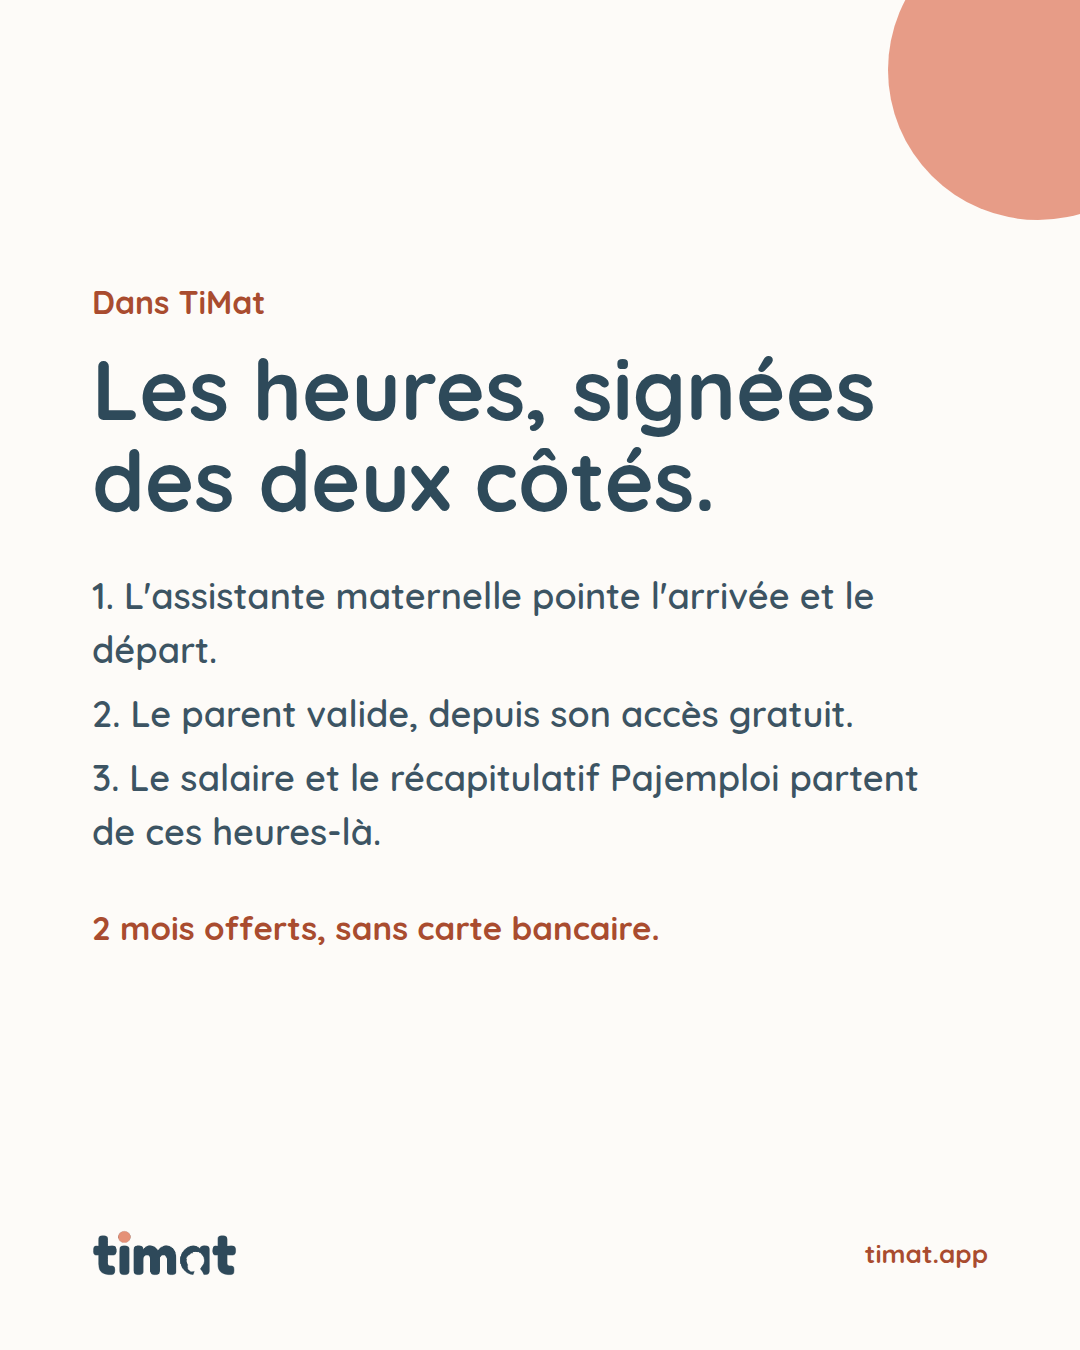
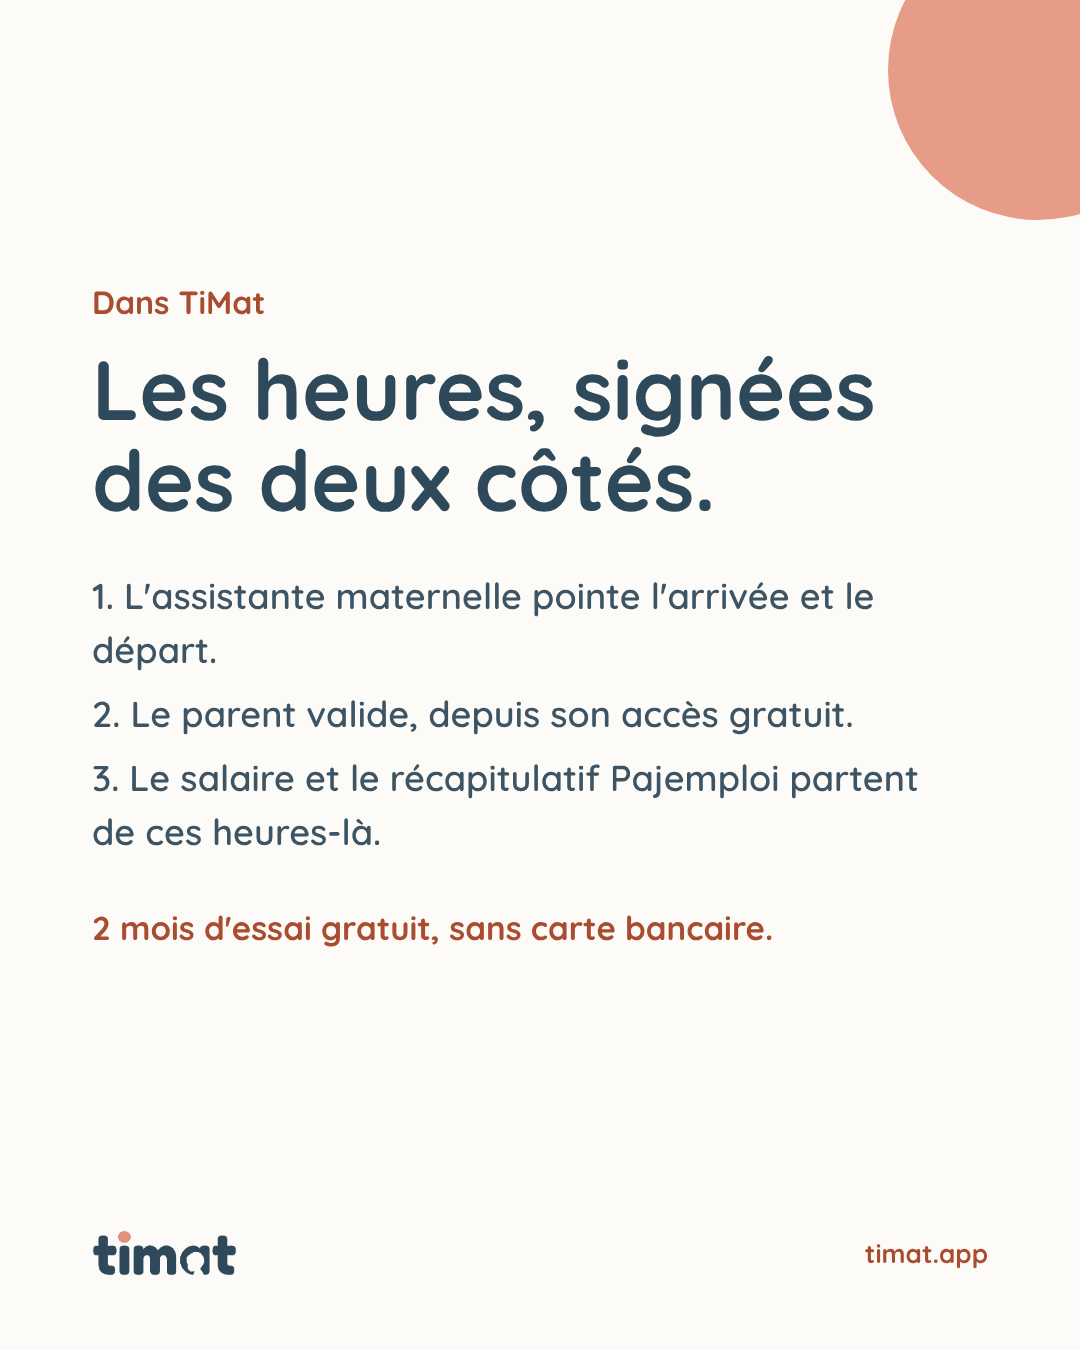
Encadré « Écrit par Sophie », essai renommé, premier paiement en fin d'essai, stories replacées (#317)
Décisions de Sophie du 7/11 :

- Encadré « Écrit par Sophie, fondatrice de TiMat · Cachan (Val-de-Marne) »
  sur chaque article, avant les sources, avec le texte qu'elle a validé :
  prénom seul (la documentation Google sur les articles ne demande que le
  nom de l'auteur), sans photo, agrément en préparation — jamais « agréée ».
  Les données structurées nomment l'autrice (Person) ; TiMat reste
  l'éditeur.

- L'essai s'appelle partout « 2 mois d'essai gratuit » ; « 2 mois
  offerts » est réservé au paiement à l'année. Site, application,
  courriels de fin d'essai, lettre d'information, kit (bio Instagram
  comprise) et les sept images qui portaient la mention.

- Choisir son offre pendant l'essai ne fait plus perdre de jours : le
  premier prélèvement Stripe est fixé à la fin de l'essai (trial_end),
  s'il reste plus de 48 heures. Avant, une abonnée au 20e jour payait le
  jour même et perdait le reste de son essai. CGV complétées, datées du
  7/11, empreinte recalculée.

- Stories non faites les 5 et 6/11 : replacées sans jamais deux sondages
  le même jour (préavis le 7/11, congés le 9/11, sondage d'avis le 13/11).

Claude-Session: https://claude.ai/code/session_01JVfHnHqQqeEKwpYvot8sHP

diff --git a/src/App.jsx b/src/App.jsx
@@ -5308,7 +5308,7 @@ export function ModaleListeAttente({ ouverte, fermer }){
             <>
               <p style={{fontSize:14.5,lineHeight:1.7,color:"#55707C",margin:"0 0 18px"}}>
                 Vous recevrez un e-mail le jour où les inscriptions ouvrent. Un seul.
-                Vous pourrez créer votre compte dans la foulée : <b style={{color:"#2E4859"}}>deux mois offerts, sans carte bancaire</b>.
+                Vous pourrez créer votre compte dans la foulée : <b style={{color:"#2E4859"}}>deux mois d'essai gratuit, sans carte bancaire</b>.
               </p>
               <p style={{fontSize:14.5,lineHeight:1.7,color:"#55707C",margin:"0 0 14px"}}>
                 D'ici là, tout ceci est déjà en ligne, gratuitement et sans compte :
@@ -5839,7 +5839,7 @@ export function LandingPage({onLogin,dark,setDark,config=DEFAULT_CONFIG,preview=
               <div style={{ display: "flex", justifyContent: "space-between", alignItems: "center", marginBottom: 16 }}>
                 <div>
                   <div style={{ fontFamily: fTitle, fontSize: 18, fontWeight: 700, color: "#0D1B2A" }}>{role === "asmat" ? "Espace pro" : "Espace famille"}</div>
-                  <div style={{ fontSize: 11, color: "#A68970", marginTop: 2 }}>{modeAuth === "inscription" ? (role === "asmat" ? "2 mois gratuits · sans carte" : "Inscription gratuite") : "Content de vous revoir !"}</div>
+                  <div style={{ fontSize: 11, color: "#A68970", marginTop: 2 }}>{modeAuth === "inscription" ? (role === "asmat" ? "2 mois d'essai gratuit · sans carte" : "Inscription gratuite") : "Content de vous revoir !"}</div>
                 </div>
                 <button onClick={() => { try{window.location.href="/";}catch(e){} }} style={{ background: "none", border: "none", fontSize: 18, cursor: "pointer", color: "#A68970" }}>✕</button>
               </div>
@@ -6941,7 +6941,7 @@ export function LandingPage({onLogin,dark,setDark,config=DEFAULT_CONFIG,preview=
               <p><strong>Formule Pro :</strong> 9,99 € TTC par mois, ou 99 € TTC par an. Accès à toutes les fonctionnalités, sans limite du nombre d'enfants accueillis.</p>
               <p><strong>Essai gratuit :</strong> tout compte d'assistante maternelle s'ouvre sur un essai gratuit de 2 mois, avec l'accès de la formule Pro, à compter de la création du compte. <strong>Aucune carte bancaire n'est demandée pour cet essai</strong>, et aucun abonnement n'est créé pendant sa durée : il ne peut donc pas se transformer en prélèvement. Un rappel est envoyé 7 jours puis 3 jours avant la fin.</p>
               <p>À l'issue des 2 mois, le compte repasse automatiquement en formule gratuite. <strong>Aucune donnée n'est supprimée</strong> : enfants, pointages, contrats et documents sont conservés, seules les fonctions des formules payantes cessent d'être accessibles. Reprendre un abonnement les rouvre en l'état.</p>
-              <p>La carte bancaire n'est demandée qu'au moment de souscrire l'abonnement, si vous choisissez de continuer. L'abonnement est alors mensuel ou annuel, selon le choix fait à la souscription, et résiliable à tout moment sans frais depuis l'espace utilisateur ; la résiliation prend effet à la fin de la période déjà payée. Le passage d'une formule à l'autre, ou d'une période à l'autre, prend effet immédiatement : la différence de prix est calculée au prorata de la période en cours, puis facturée ou créditée. Le paiement est géré par Stripe (prestataire certifié PCI-DSS). Aucune donnée bancaire n'est stockée par TiMat.</p>
+              <p>La carte bancaire n'est demandée qu'au moment de souscrire l'abonnement, si vous choisissez de continuer. Un abonnement souscrit pendant l'essai n'est prélevé qu'à la fin de celui-ci. L'abonnement est alors mensuel ou annuel, selon le choix fait à la souscription, et résiliable à tout moment sans frais depuis l'espace utilisateur ; la résiliation prend effet à la fin de la période déjà payée. Le passage d'une formule à l'autre, ou d'une période à l'autre, prend effet immédiatement : la différence de prix est calculée au prorata de la période en cours, puis facturée ou créditée. Le paiement est géré par Stripe (prestataire certifié PCI-DSS). Aucune donnée bancaire n'est stockée par TiMat.</p>
 
               <h3 style={{fontSize:15,fontWeight:700,color:"#2E4859",margin:"20px 0 12px"}}>5. Données et contenu utilisateur</h3>
               <p>L'utilisateur reste propriétaire de toutes les données qu'il saisit dans TiMat (informations sur les enfants, contrats, pointages, transmissions, documents). TiMat ne revendique aucun droit de propriété sur ces données. L'utilisateur peut exporter ou supprimer ses données à tout moment.</p>
@@ -7101,7 +7101,7 @@ export function LandingPage({onLogin,dark,setDark,config=DEFAULT_CONFIG,preview=
               <div style={{ display: "flex", justifyContent: "space-between", alignItems: "center", marginBottom: 16 }}>
                 <div>
                   <div style={{ fontFamily: fTitle, fontSize: 18, fontWeight: 700, color: "#0D1B2A" }}>{role === "asmat" ? "Espace pro" : "Espace famille"}</div>
-                  <div style={{ fontSize: 11, color: "#A68970", marginTop: 2 }}>{modeAuth === "inscription" ? (role === "asmat" ? "2 mois gratuits · sans carte" : "Inscription gratuite") : "Content de vous revoir !"}</div>
+                  <div style={{ fontSize: 11, color: "#A68970", marginTop: 2 }}>{modeAuth === "inscription" ? (role === "asmat" ? "2 mois d'essai gratuit · sans carte" : "Inscription gratuite") : "Content de vous revoir !"}</div>
                 </div>
                 <button onClick={() => setShowModal(false)} style={{ background: "none", border: "none", fontSize: 18, cursor: "pointer", color: "#A68970" }}>✕</button>
               </div>
@@ -7330,24 +7330,24 @@ export const DEFAULT_CONFIG = {
     heroSub:"Vous saisissez vos heures. TiMat calcule le salaire, les congés et les indemnités, et prépare votre déclaration Pajemploi.",
     heroBtn:"Commencer gratuitement →",
     prixMensuel:"9,99",
-    prixEssai:"2 mois offerts",
+    prixEssai:"2 mois d'essai gratuit",
     heroDesc:"",
     heroBadge:"Conforme à la convention IDCC 3239",
     heroSubDesc:"",
-    heroBtnPrimTxt:"2 mois offerts, sans carte bancaire →",
+    heroBtnPrimTxt:"2 mois d'essai gratuit, sans carte bancaire →",
     // La barre du bas a son propre libellé : elle porte déjà le prix et la
     // durée à gauche, reprendre le bouton du hero disait tout deux fois.
-    barreBtnTxt:"Je démarre mes 2 mois offerts",
+    barreBtnTxt:"Je démarre mon essai gratuit",
     heroBtnSecTxt:"Voir l'app en démo ↓",
     // Les deux portes d'entrée du hero, et la troisième voie sans compte.
     heroRoleAsmat:"Je suis assistante maternelle",
-    heroRoleAsmatSub:"2 mois offerts, sans carte bancaire",
+    heroRoleAsmatSub:"2 mois d'essai gratuit, sans carte bancaire",
     heroRoleParent:"Je suis parent employeur",
     heroRoleParentSub:"Gratuit, invité par votre assistante maternelle",
     heroOutilTxt:"Calculer un salaire mensualisé — sans compte",
     heroBtnNavTxt:"Commencer gratuitement →",
-    heroTags:"2 mois offerts,Sans carte bancaire,Une saisie — le reste se calcule,Données en France",
-    ctaBtnTxt:"Je commence - 2 mois gratuits →",
+    heroTags:"2 mois d'essai gratuit,Sans carte bancaire,Une saisie — le reste se calcule,Données en France",
+    ctaBtnTxt:"Je commence mon essai gratuit →",
     ctaSub:"TiMat s'occupe de ça. Pour que vous puissiez vous occuper des enfants.",
     ctaFooter:"Créé par une professionnelle de la petite enfance · Données hébergées en France 🇫🇷",
     proLabel:"⭐ SANS LIMITE D'ENFANTS",
@@ -8862,7 +8862,7 @@ export default function App(){
             <div style={{margin:"10px 12px 0",background:"#FFF4EF",border:"1px solid #F0D6CB",borderLeft:"3px solid #B4543F",borderRadius:12,padding:"12px 14px",display:"flex",gap:12,alignItems:"center",flexWrap:"wrap"}}>
               <div style={{flex:"1 1 200px",minWidth:0}}>
                 <div style={{fontWeight:700,color:"#2E4859",fontSize:14}}>
-                  {joursEssai===1?"Vos deux mois offerts se terminent demain.":"Vos deux mois offerts se terminent dans "+joursEssai+" jours."}
+                  {joursEssai===1?"Votre essai gratuit se termine demain.":"Votre essai gratuit se termine dans "+joursEssai+" jours."}
                 </div>
                 <div style={{fontSize:12.5,color:"#55707C",marginTop:2,lineHeight:1.5}}>
                   Sans rien faire, votre compte repasse en formule gratuite. Rien n'est supprimé.
@@ -8877,7 +8877,7 @@ export default function App(){
           {role!=="parent"&&essaiFini&&(
             <div style={{margin:"10px 12px 0",background:"#F4F7F6",border:"1px solid #D8E4E1",borderLeft:"3px solid #2F655F",borderRadius:12,padding:"12px 14px",display:"flex",gap:12,alignItems:"center",flexWrap:"wrap"}}>
               <div style={{flex:"1 1 200px",minWidth:0}}>
-                <div style={{fontWeight:700,color:"#2E4859",fontSize:14}}>Vos deux mois offerts sont terminés.</div>
+                <div style={{fontWeight:700,color:"#2E4859",fontSize:14}}>Votre essai gratuit de 2 mois est terminé.</div>
                 <div style={{fontSize:12.5,color:"#55707C",marginTop:2,lineHeight:1.5}}>
                   Vos enfants, vos pointages et vos documents sont intacts. Reprendre l'abonnement rouvre le dossier exactement où vous l'aviez laissé.
                 </div>

diff --git a/api/send-email.js b/api/send-email.js
@@ -58,7 +58,7 @@ export const EMAIL_TEMPLATES = {
   essai_rappel_7: {
     subject: "Il vous reste une semaine d'essai TiMat",
     html: (v) => `<h2>${salut(v.prenom)}</h2>
-<p>Vos deux mois offerts se terminent le <strong>${esc(v.fin)}</strong>, dans ${esc(v.jours)} jours.</p>
+<p>Votre essai gratuit de 2 mois se termine le <strong>${esc(v.fin)}</strong>, dans ${esc(v.jours)} jours.</p>
 <p>Vous n'avez rien à faire tout de suite, et aucune carte bancaire ne vous a été demandée. Si vous souhaitez continuer, vous pourrez le faire d'un clic depuis votre espace.</p>
 <p><a href="${lien(v.url)}" style="display:inline-block;background:#B4543F;color:#fff;padding:12px 24px;border-radius:8px;text-decoration:none;font-weight:700">Ouvrir TiMat</a></p>
 <p style="color:#55707C;font-size:14px">Si vous ne continuez pas, votre compte repasse simplement en formule gratuite. Vos enfants, vos pointages et vos documents restent là où ils sont.</p>`,
@@ -66,7 +66,7 @@ export const EMAIL_TEMPLATES = {
   essai_rappel_3: {
     subject: "Vos deux mois d'essai TiMat se terminent dans 3 jours",
     html: (v) => `<h2>${salut(v.prenom)}</h2>
-<p>Vos deux mois offerts se terminent le <strong>${esc(v.fin)}</strong>.</p>
+<p>Votre essai gratuit de 2 mois se termine le <strong>${esc(v.fin)}</strong>.</p>
 <p>Pour garder les bulletins de salaire et le récapitulatif Pajemploi, choisissez votre offre : Essentiel à 4,99 € par mois pour un enfant, ou Pro à 9,99 € par mois sans limite d'enfants (ou à l'année, avec 2 mois offerts) — sans engagement, résiliable en un clic.</p>
 <p><a href="${lien(v.url)}" style="display:inline-block;background:#B4543F;color:#fff;padding:12px 24px;border-radius:8px;text-decoration:none;font-weight:700">Choisir mon offre</a></p>
 <p style="color:#55707C;font-size:14px">Si vous ne faites rien, votre compte repasse en formule gratuite. <strong>Rien n'est supprimé</strong> : vos enfants, vos pointages et vos documents vous attendent, et reprendre l'abonnement rouvre exactement le dossier que vous aviez laissé.</p>`,

diff --git a/api/stripe.js b/api/stripe.js
@@ -205,7 +205,7 @@ export default async function handler(req, res) {
     // au prorata ; le webhook « customer.subscription.updated » met l'offre a
     // jour dans le profil.
     const { data: profil, error: errProfil } = await sb.from('profiles')
-      .select('stripe_customer_id').eq('id', userId).maybeSingle();
+      .select('stripe_customer_id, subscription_status, subscription_end_date').eq('id', userId).maybeSingle();
     if (errProfil) return res.status(502).json({ error: 'Profil illisible : ' + errProfil.message });
     if (profil?.stripe_customer_id) {
       const { data: abonnements } = await stripe.subscriptions.list({ customer: profil.stripe_customer_id, status: 'all', limit: 10 });
@@ -227,6 +227,15 @@ export default async function handler(req, res) {
       }
     }
 
+    // CHOISIR SON OFFRE PENDANT L'ESSAI NE FAIT PERDRE AUCUN JOUR. Sans cela,
+    // une assistante maternelle qui s'abonnait au 20e jour de ses 2 mois
+    // d'essai payait le jour même et perdait les 40 jours restants. Le premier
+    // prélèvement est donc fixé à la fin de l'essai ; Stripe exige au moins
+    // 48 heures d'écart, en deçà le paiement commence tout de suite.
+    const finEssai = profil?.subscription_status === 'trialing' && profil?.subscription_end_date
+      ? Math.floor(new Date(profil.subscription_end_date).getTime() / 1000) : 0;
+    const essaiRestant = finEssai > Math.floor(Date.now() / 1000) + 2 * 86400 ? finEssai : 0;
+
     const session = await stripe.checkout.sessions.create({
       mode: 'subscription',
       payment_method_types: ['card'],
@@ -243,6 +252,7 @@ export default async function handler(req, res) {
       // le premier paiement de deux mois de plus.
       subscription_data: {
         metadata: { userId, offre, periode },
+        ...(essaiRestant ? { trial_end: essaiRestant } : {}),
       },
     });
 

diff --git a/src/ecrans-secondaires.jsx b/src/ecrans-secondaires.jsx
@@ -630,7 +630,7 @@ export function CarteAbonnement({user,nbEnfants=0,lancerCheckout,ouvrirPortail})
   // proposé qu'à qui accueille au plus un enfant.
   const choix=offre==="pro"?[]:offre==="essentiel"?["pro"]:["essentiel","pro"];
   const texte={
-    essai:"Votre essai gratuit vous donne tout TiMat"+(jours!==null&&jours>0?", encore "+jours+" jour"+(jours>1?"s":""):"")+". Aucun abonnement n'est en cours : sans rien faire, le compte repasse en gratuit à la fin de l'essai, et vos données restent là. Pour continuer avec tout TiMat, choisissez votre offre.",
+    essai:"Votre essai gratuit vous donne tout TiMat"+(jours!==null&&jours>0?", encore "+jours+" jour"+(jours>1?"s":""):"")+". Aucun abonnement n'est en cours : sans rien faire, le compte repasse en gratuit à la fin de l'essai, et vos données restent là. Pour continuer avec tout TiMat, choisissez votre offre"+(jours!==null&&jours>2?" : le premier paiement aura lieu à la fin de l'essai, vous ne perdez aucun jour.":"."),
     gratuit:"Compte gratuit : un enfant, et tout son quotidien. Pour la paie et les documents officiels, choisissez une offre.",
     essentiel:"Offre Essentiel active : tout TiMat, pour un enfant."+(nbEnfants>=1?" Pour accueillir un deuxième enfant, passez au Pro : le changement se fait au prorata, sans second abonnement.":""),
     pro:"Offre Pro active : tout TiMat, sans limite d'enfants.",

diff --git a/lib/infolettre-inscription.js b/lib/infolettre-inscription.js
@@ -61,7 +61,7 @@ function corpsAttente(email) {
   return `<!DOCTYPE html><html lang="fr"><body style="margin:0;background:#FDFBF8;font-family:-apple-system,BlinkMacSystemFont,'Segoe UI',sans-serif;color:#2E4859;line-height:1.7">
   <div style="max-width:520px;margin:0 auto;padding:32px 22px">
     <p style="font-size:22px;font-weight:700;margin:0 0 18px">C'est noté — vous serez prévenue</p>
-    <p style="margin:0 0 16px">Vous recevrez un e-mail le jour où les inscriptions ouvrent. Un seul, et vous pourrez créer votre compte dans la foulée : <strong>deux mois offerts, sans carte bancaire</strong>.</p>
+    <p style="margin:0 0 16px">Vous recevrez un e-mail le jour où les inscriptions ouvrent. Un seul, et vous pourrez créer votre compte dans la foulée : <strong>deux mois d'essai gratuit, sans carte bancaire</strong>.</p>
     <p style="margin:0 0 16px">D'ici là, tout ce qui est déjà en ligne l'est gratuitement et sans compte :</p>
     <p style="margin:0 0 8px">→ <a href="https://www.timat.app/outils.html" style="color:#9E5341">Les simulateurs</a> — salaire, congés, indemnités, Pajemploi</p>
     <p style="margin:0 0 8px">→ <a href="https://www.timat.app/blog" style="color:#9E5341">Les guides</a> — sourcés, avec les textes cités</p>

diff --git a/index.html b/index.html
@@ -138,7 +138,7 @@
         <h1>Application pour assistantes maternelles<br><em>et parents employeurs.</em></h1>
         <p class="quoi">Vous saisissez vos heures. TiMat calcule le salaire, les congés et les indemnités, et prépare votre déclaration Pajemploi.</p>
         <span class="cta">Je suis assistante maternelle →</span>
-        <span class="rassure">2 mois offerts · Sans carte bancaire · Données en France</span>
+        <span class="rassure">2 mois d'essai gratuit · Sans carte bancaire · Données en France</span>
         <div class="bar"><span></span></div>
       </div>
       <!-- Un seul h1 sur cette page, et aucun bloc cache pour les moteurs :
@@ -182,7 +182,7 @@
         <p>Le salaire minimum, la mensualisation, les congés, la déclaration Pajemploi : les réponses aux questions qui reviennent.</p>
 
         <h2>Ressources pour les assmats</h2>
-        <p>96 guides pratiques gratuits, chacun adossé à ses sources officielles, et des simulateurs sans inscription.</p>
+        <p>98 guides pratiques gratuits, chacun adossé à ses sources officielles, et des simulateurs sans inscription.</p>
 
         <nav aria-label="Ressources">
           <ul>

diff --git a/data/documents-legaux.js b/data/documents-legaux.js
@@ -12,11 +12,11 @@
 // d'audit compare le texte legal a son empreinte : toute modification du
 // texte fait echouer la construction tant que la date et l'empreinte n'ont
 // pas ete mises a jour ensemble.
-export const MAJ_DOCUMENTS_LEGAUX = "2026-11-05";
+export const MAJ_DOCUMENTS_LEGAUX = "2026-11-07";
 
 // Empreinte du texte lisible des trois documents. Se regenere avec :
 //   node scripts/empreinte-legale.mjs --ecrire
-export const EMPREINTE_DOCUMENTS_LEGAUX = "e82acc7b572bbcc15f4eeaede2de1baf";
+export const EMPREINTE_DOCUMENTS_LEGAUX = "3da3c9d9740b3496d30dcb8d6d5ef7f9";
 
 export const majLisible = () => {
   const [a, m, j] = MAJ_DOCUMENTS_LEGAUX.split("-");

diff --git a/public/confidentialite.html b/public/confidentialite.html
@@ -154,7 +154,7 @@
 <h2>11. Réclamation</h2>
 <p>Si vous estimez que vos droits ne sont pas respectés, vous pouvez adresser une réclamation à la CNIL, Commission nationale de l'informatique et des libertés : <a href="https://www.cnil.fr">www.cnil.fr</a></p>
 
-<p class="maj">Dernière mise à jour : 5 novembre 2026</p>
+<p class="maj">Dernière mise à jour : 7 novembre 2026</p>
 
 </main>
 

diff --git a/data/nombre-guides.js b/data/nombre-guides.js
@@ -1,3 +1,3 @@
 // Ecrit par scripts/generate-blog.mjs a chaque build. Ne pas modifier a la main.
-export const NOMBRE_GUIDES = 96;
+export const NOMBRE_GUIDES = 98;
 export default NOMBRE_GUIDES;
